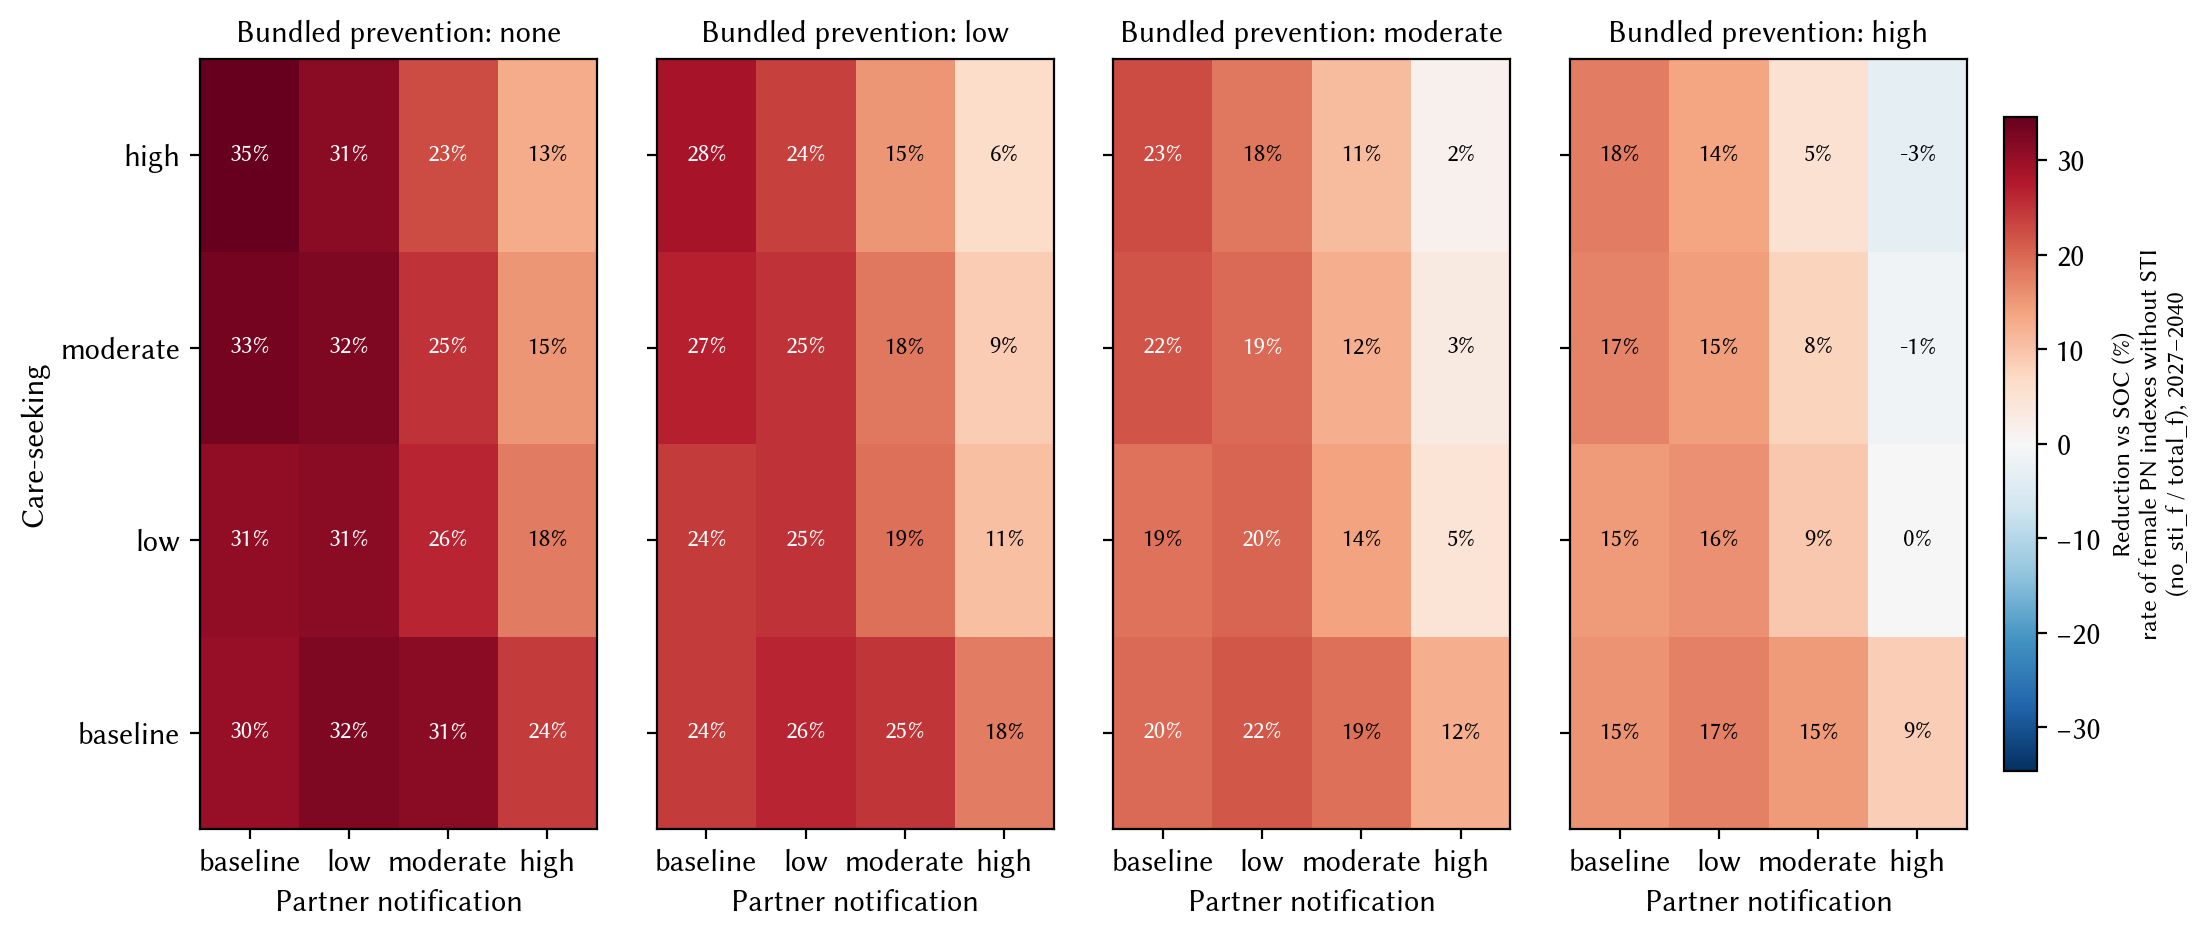
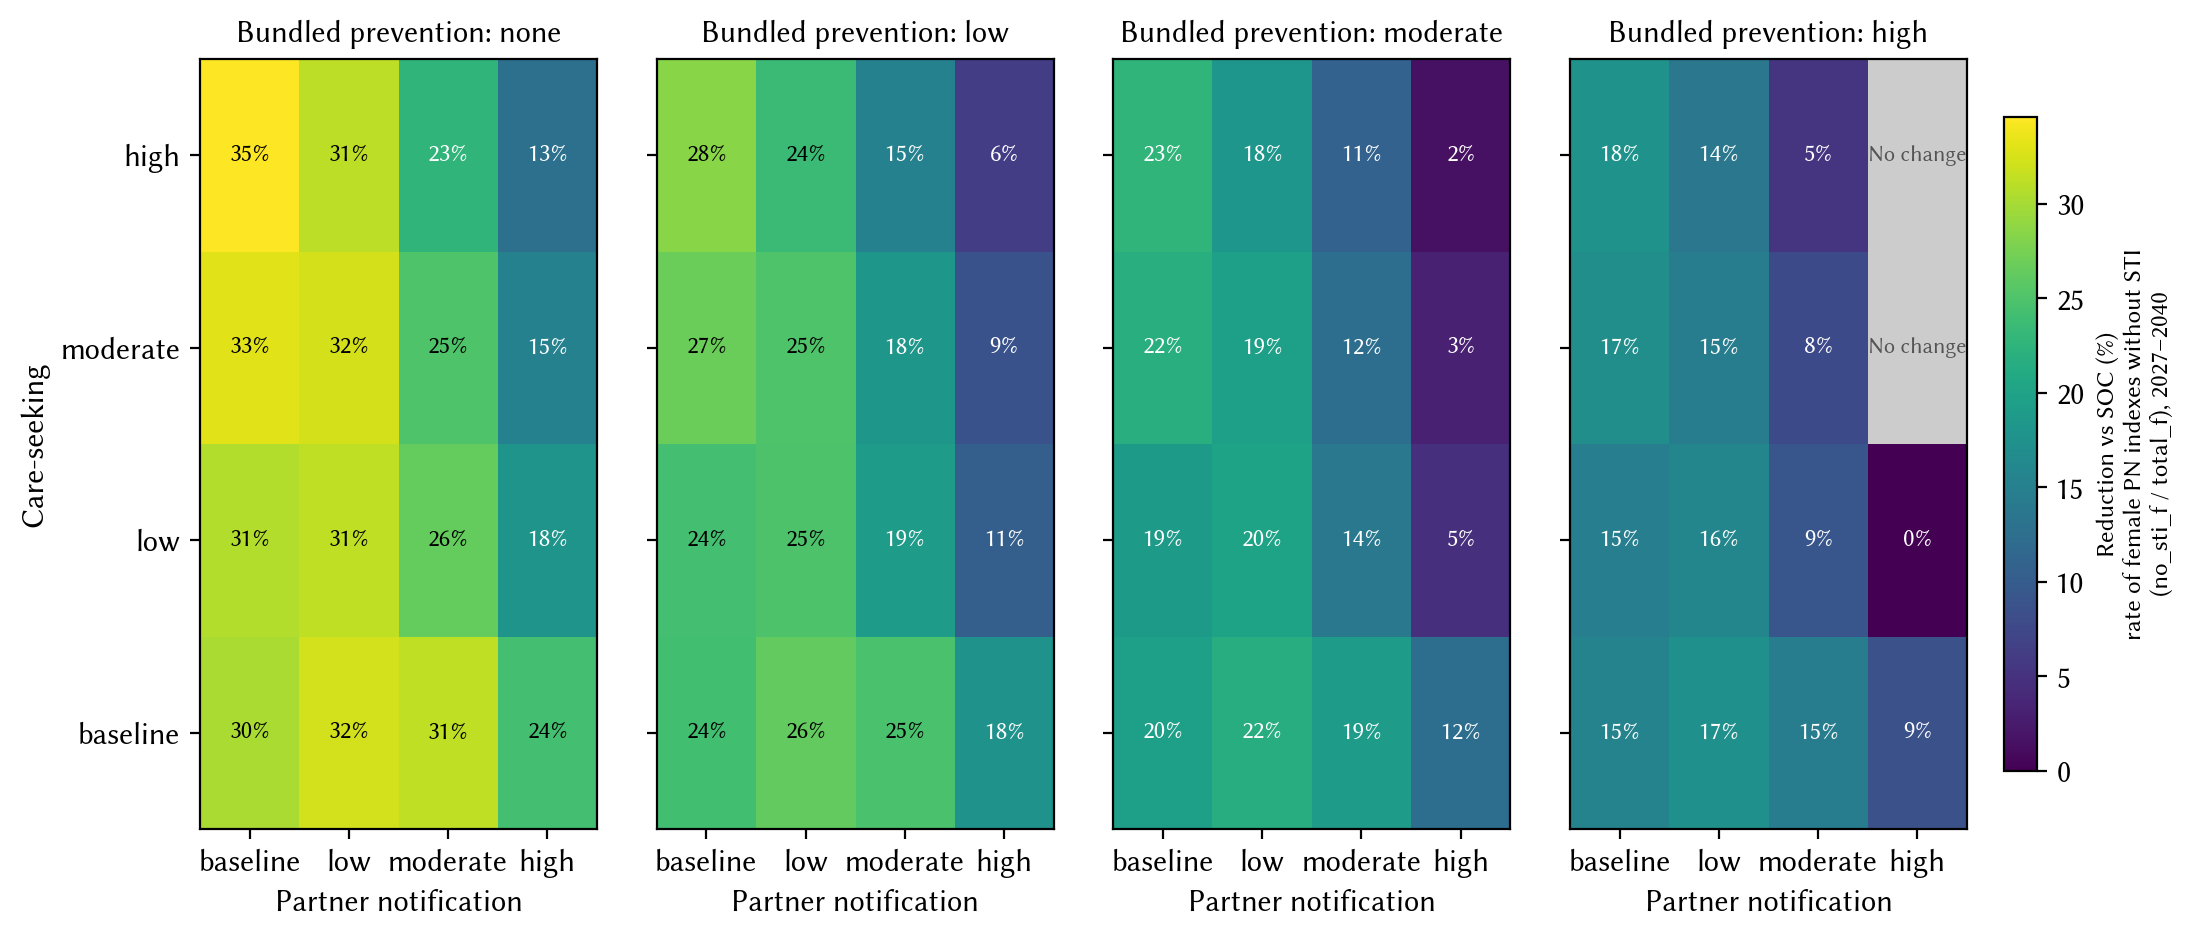
slide 14: censor negatives to grey 'No change' + clamp cbar
Small negative reductions (single-digit %) are within the model's cross-draw
noise; showing them on a diverging colour scale wasted the palette and made
the positive story harder to read. Add opt-in censor_negative to
draw_heatmap_grid: masked cells get grey + 'No change' text; viridis stays
clamped to [0, vmax]. Slide 14 opts in; 12 and 13 unaffected.

diff --git a/plotting/plot_slide12.py b/plotting/plot_slide12.py
@@ -48,13 +48,17 @@ def cell_median_pct_reduction(kavg, per_draw_metric):
     return poc[['care', 'pn', 'bp', 'pct_reduction']]
 
 
-def draw_heatmap_grid(arm_pct, cbar_label, out_png):
+def draw_heatmap_grid(arm_pct, cbar_label, out_png, censor_negative=False):
     """4-panel heatmap: care x PN (rows x cols), one panel per BP level.
 
     arm_pct: DataFrame with columns [care, pn, bp, pct_reduction], one row per
     POC arm (typically 64 rows: 4 x 4 x 4 factorial).
     cbar_label: multi-line label for the shared colorbar.
     out_png: destination Path for the figure PNG.
+    censor_negative: when True, values < 0 are drawn in grey and labelled
+    "No change" (the colorbar is clamped to [0, vmax] with a sequential cmap).
+    Use for metrics where a negative "reduction" is small model noise and would
+    otherwise dominate the diverging colour scale.
     """
     sc.fonts(add=FONT)
     sc.options(font='Libertinus Sans', fontsize=11)
@@ -64,13 +68,16 @@ def draw_heatmap_grid(arm_pct, cbar_label, out_png):
 
     vmin = float(arm_pct['pct_reduction'].min())
     vmax = float(arm_pct['pct_reduction'].max())
-    # Diverging cmap centered on 0 if any negatives; otherwise sequential.
-    if vmin < 0:
+    if censor_negative:
+        vmin, cmap = 0.0, 'viridis'
+    elif vmin < 0:
+        # Diverging cmap centered on 0 if any negatives.
         m = max(abs(vmin), abs(vmax))
         vmin, vmax, cmap = -m, m, 'RdBu_r'
     else:
         cmap = 'viridis'
-    cmap_obj = pl.get_cmap(cmap)
+    cmap_obj = pl.get_cmap(cmap).copy()
+    cmap_obj.set_bad(color='#cccccc')
 
     grids = []
     for bp in BP_PANELS:
@@ -82,7 +89,10 @@ def draw_heatmap_grid(arm_pct, cbar_label, out_png):
     for i_ax, (ax, bp, g) in enumerate(zip(axes, BP_PANELS, grids)):
         # origin='lower' puts row 0 (baseline care) at the bottom so care-seeking
         # increases as the eye moves upward.
-        im = ax.imshow(g.to_numpy(), cmap=cmap, vmin=vmin, vmax=vmax,
+        arr = g.to_numpy()
+        # When censoring, mask negatives so they render with the "bad" colour.
+        plot_arr = np.ma.masked_where(arr < 0, arr) if censor_negative else arr
+        im = ax.imshow(plot_arr, cmap=cmap_obj, vmin=vmin, vmax=vmax,
                        aspect='auto', origin='lower')
         ax.set_xticks(range(len(PN_LEVELS)))
         ax.set_xticklabels(PN_LEVELS)
@@ -95,11 +105,15 @@ def draw_heatmap_grid(arm_pct, cbar_label, out_png):
         ax.set_title(f'Bundled prevention: {bp}', fontsize=11)
         # Cell text: pick colour from the underlying rgba's luminance so it
         # stays readable across the full colormap (viridis is dark at low
-        # values, bright yellow at high).
+        # values, bright yellow at high). Censored (grey) cells get "No change".
         for i in range(g.shape[0]):
             for j in range(g.shape[1]):
                 v = g.iat[i, j]
                 if np.isnan(v):
+                    continue
+                if censor_negative and v < 0:
+                    ax.text(j, i, 'No change', ha='center', va='center',
+                            fontsize=8, color='#555555')
                     continue
                 norm = (v - vmin) / (vmax - vmin) if vmax > vmin else 0.5
                 r, gr, b, _ = cmap_obj(norm)

diff --git a/plotting/plot_slide14.py b/plotting/plot_slide14.py
@@ -32,6 +32,10 @@ def main():
         arm_pct,
         cbar_label='Reduction vs SOC (%)\nrate of female PN indexes without STI\n(no_sti_f / total_f), 2027–2040',
         out_png=REPO / 'figures' / 'fig_slide14.png',
+        # Small negative reductions are model noise (single-digit %); censor
+        # them to grey "No change" so the sequential cmap covers just the
+        # policy-meaningful positive range.
+        censor_negative=True,
     )
 
 
